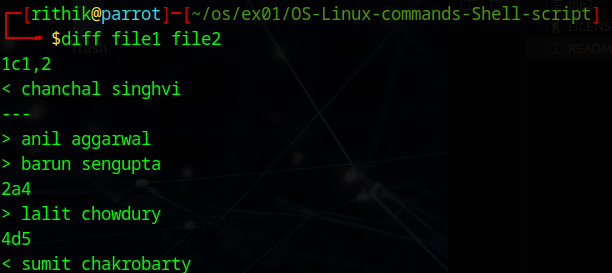
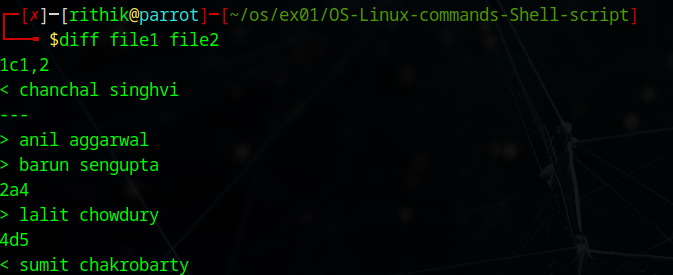
c

diff --git a/README.md b/README.md
@@ -66,7 +66,7 @@ comm file1 file2
  
 diff file1 file2
 ## OUTPUT
-![05](./img/04.png)
+![05](./img/05.png)
 
 
 #Filters
@@ -787,10 +787,12 @@ done
  
 $ chmod 755 forin1.sh
  ./forin1.sh
+ ## output
+ ![80](./img/80.png)
  
-cat >forin2.sh 
+cat > forin2.sh 
 ```bash
-\#!/bin/bash
+#!/bin/bash
 \# another example of how not to use the for command
 for test in I don't know if this'll work
 do
@@ -802,11 +804,12 @@ $ chmod 755 forin2.sh
  ./forin2.sh
 
  ## output
+ ![81](./img/81.png)
 
 
 cat > forin3.sh 
 ```bash
-\#!/bin/bash
+#!/bin/bash
 \# another example of how not to use the for command
 for test in I don't know if this'll work
 do
@@ -815,25 +818,10 @@ done
 ```
 $ chmod 755 forin3.sh
  
-$ ./forin2.sh 
+$ ./forin3.sh 
 
 ## output
-
-
- 
-cat forin3.sh 
-```bash
-\#!/bin/bash
-\# another example of how not to use the for command
-for test in I don\'t know if "this'll" work
-do
-echo "word:$test"
-done
-```
-chmod 777 forin3.sh
-$ ./forin3.sh 
- ## output
-
+![82](./img/82.png)
 
 
 cat > forinfile.sh 
